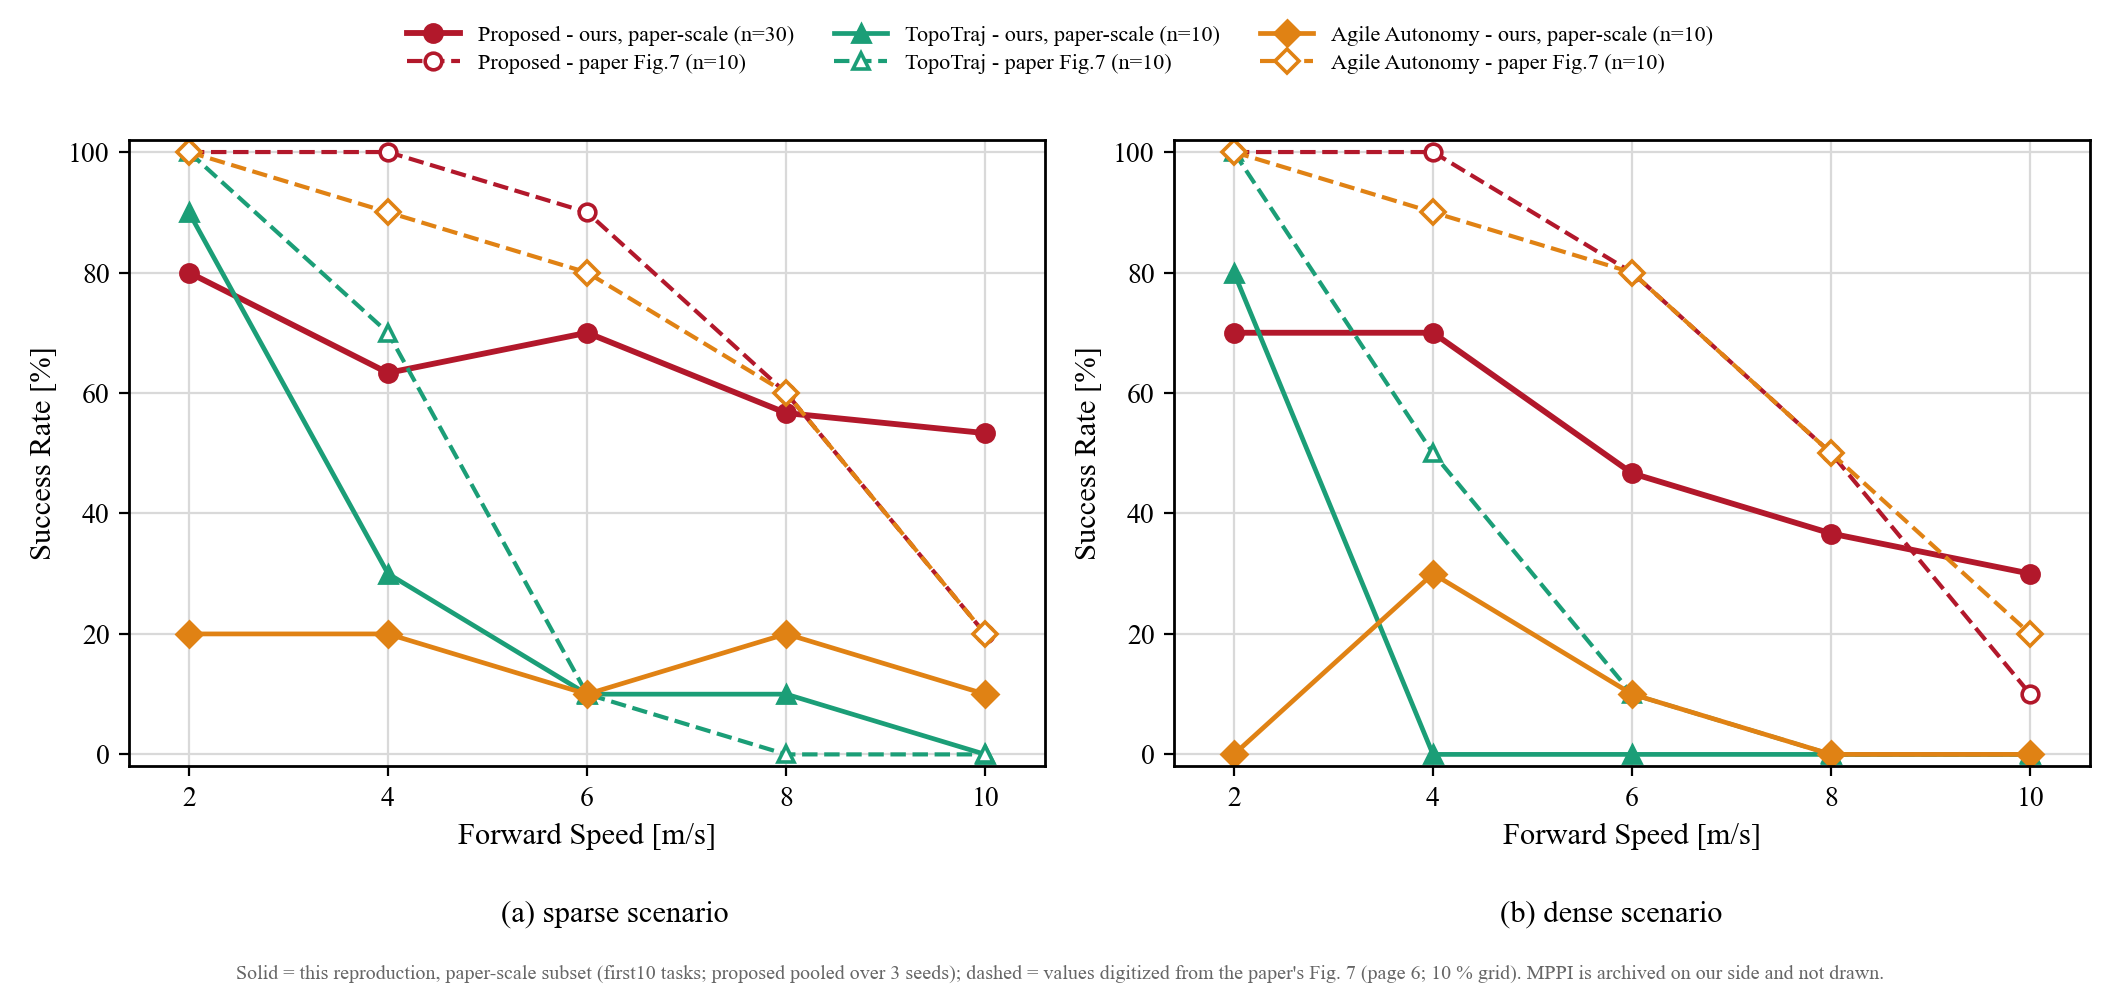
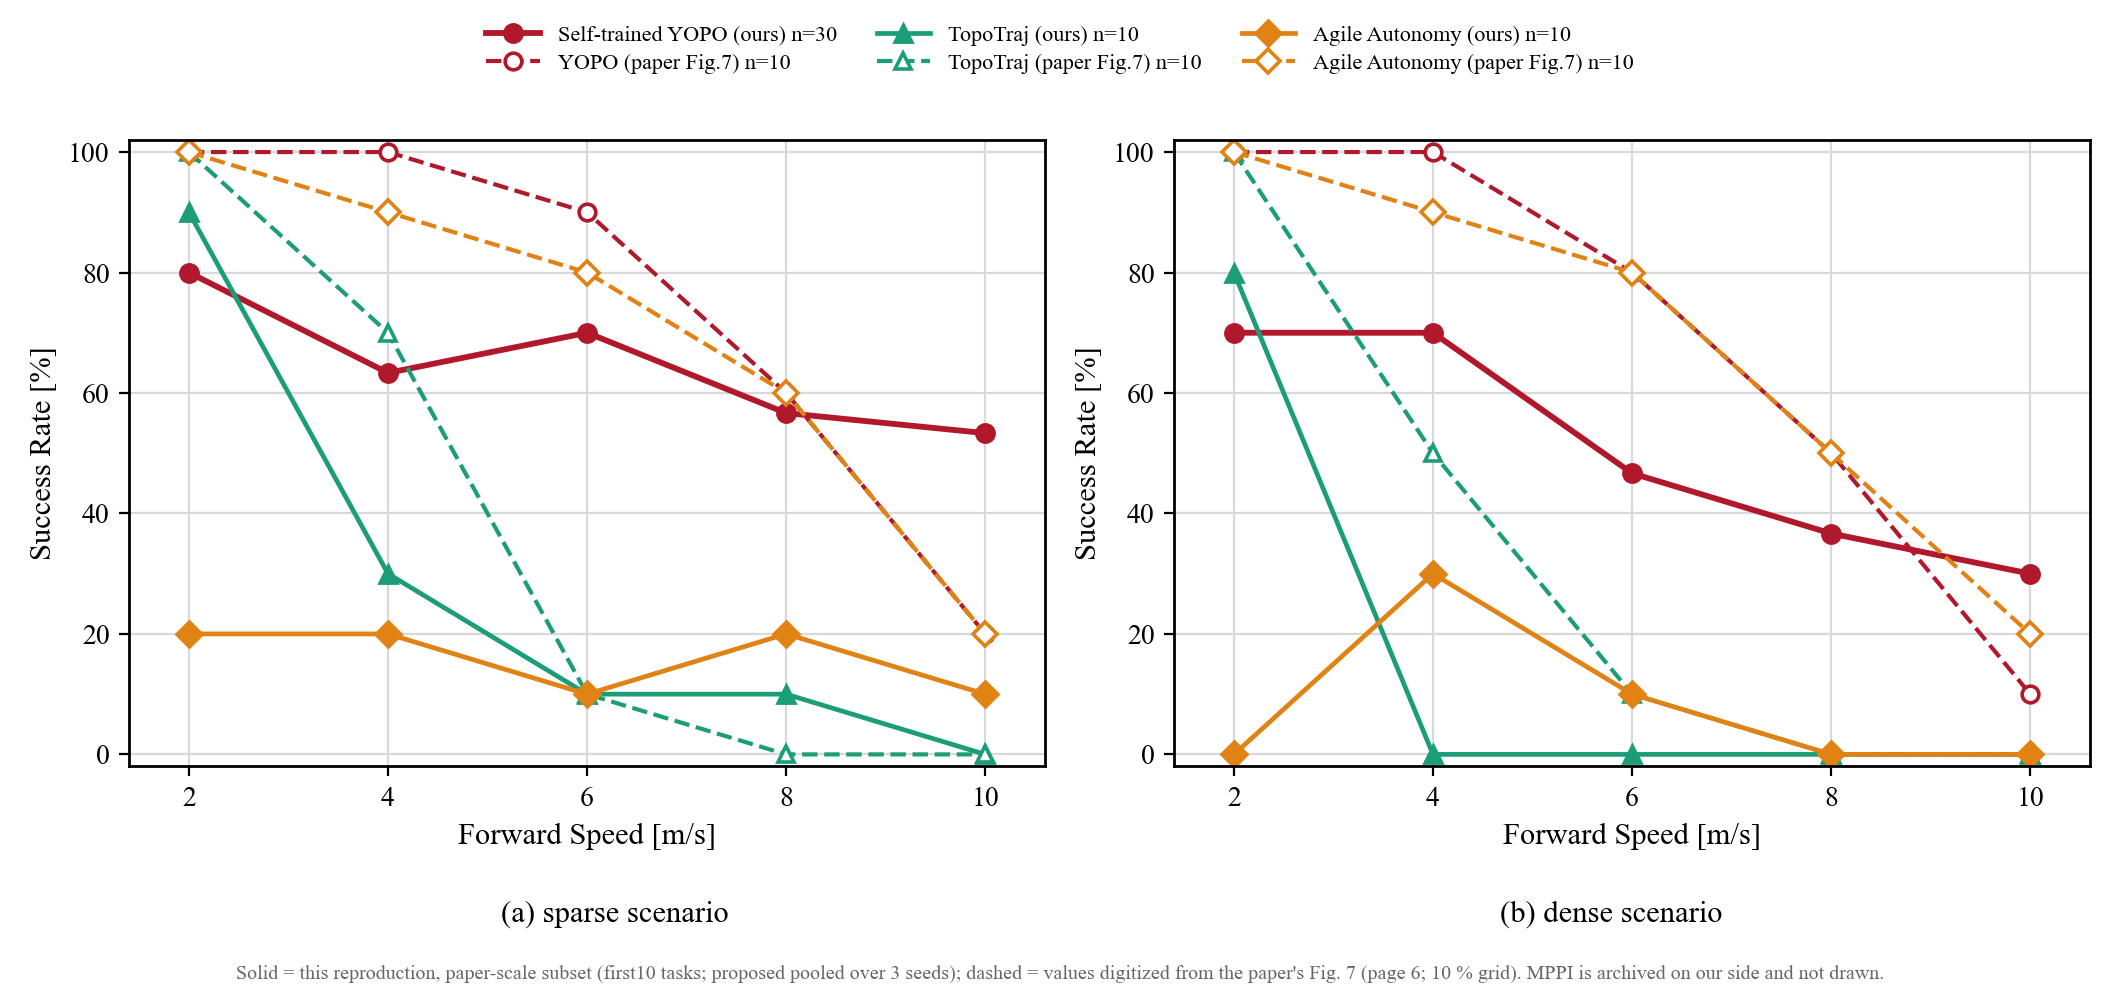
docs: full-matrix-only comparison figures; rename proposed to Self-trained YOPO (ours)
The two Fig.7-style panels drop the paper-scale (first10) dashed series so every curve is a full-matrix comparison (self-trained n=90/point, baselines n=30/point, official reference arm n=30/point with a live running count); the paper-scale alignment stays in its dedicated figure. Legend naming follows the repo language: Self-trained YOPO (ours) / Official YOPO epoch50 reference arm, replacing the paper's 'Proposed' term. Project-map captions updated accordingly.

Changed region(s): [[0.1868, 0.0, 0.8094, 0.093]]

diff --git a/scripts/make_benchmark_speed_figures.py b/scripts/make_benchmark_speed_figures.py
@@ -46,7 +46,7 @@ MEDIA = ROOT / "report/00_index/media"
 SPEEDS = [2, 4, 6, 8, 10]
 CONDITIONS = {"sparse": "sparse  (\u03c1 = 1/30 m$^{-2}$)", "dense": "dense  (\u03c1 = 1/20 m$^{-2}$)"}
 MODELS = {
-    "yopo": ("Proposed", "#b2182b", "o"),
+    "yopo": ("Self-trained YOPO (ours)", "#b2182b", "o"),
     "topotraj": ("TopoTraj", "#1b9e77", "^"),
     "agile": ("Agile Autonomy", "#e08214", "D"),
 }
@@ -138,16 +138,16 @@ def _axes(ax, ylabel):
     ax.tick_params(labelsize=10)
 
 
-def render(kind, full, paper_scale, reference, path):
-    """Fig.7 layout: solid = full frozen matrix, dashed = paper-scale first10 subset;
-    the external-reference arm (official weights, same chain) is drawn when its summary exists."""
+def render(kind, full, reference, path):
+    """Fig.7 layout, full-matrix only: self-trained YOPO + baselines from the frozen matrix,
+    plus the external-reference arm (official weights, same chain) when its summary exists."""
     label = "Success Rate [%]" if kind == "success" else "Collision Rate [%]"
     ref_index = 0 if kind == "success" else 1
     ref_completed = sum(v[3] for v in reference.values())
     ref_expected = sum(v[4] for v in reference.values())
-    ref_label = ("Official epoch50 - reference arm (n=30/point)"
+    ref_label = ("Official YOPO epoch50 - reference arm (n=30/point)"
                  if reference and ref_completed >= ref_expected
-                 else "Official epoch50 - reference arm (running: %d/%d slots)" % (ref_completed, ref_expected))
+                 else "Official YOPO epoch50 - reference arm (running: %d/%d slots)" % (ref_completed, ref_expected))
     _style()
     fig, axes = plt.subplots(1, 2, figsize=(10.6, 5.0), dpi=200)
     for ax, condition in zip(axes, ("sparse", "dense")):
@@ -158,13 +158,7 @@ def render(kind, full, paper_scale, reference, path):
                 ax.plot([p[0] for p in points], [p[1] for p in points], "-",
                         color=colour, marker=marker, markersize=6.5,
                         linewidth=2.1 if key == "yopo" else 1.7,
-                        label=f"{name} - full matrix (n={points[0][2]})")
-            points = paper_scale[condition].get(key) or []
-            if points:
-                ax.plot([p[0] for p in points], [p[1] for p in points], "--",
-                        color=colour, marker=marker, markersize=6,
-                        markerfacecolor="white", markeredgewidth=1.3,
-                        linewidth=1.6, label=f"{name} - paper-scale (n={points[0][2]})")
+                        label=f"{name} (n={points[0][2]}/point)")
         ref_points = [(speed, 100.0 * reference[(condition, speed)][ref_index] / reference[(condition, speed)][3], reference[(condition, speed)][3])
                       for speed in SPEEDS
                       if (condition, speed) in reference and reference[(condition, speed)][3] > 0]
@@ -183,10 +177,9 @@ def render(kind, full, paper_scale, reference, path):
                labelspacing=0.35)
     fig.text(0.29, 0.078, "(a) sparse scenario", ha="center", fontsize=11)
     fig.text(0.76, 0.078, "(b) dense scenario", ha="center", fontsize=11)
-    footer = ("Solid = full ROS2 frozen matrix (1,500 active slots); dashed = paper-scale subset "
-              "(first10 tasks, matching the paper's 10 repeats per condition)")
+    footer = "All curves: full ROS2 frozen matrix (1,500 active slots; n = tasks per point)"
     if reference:
-        footer += "; blue = official epoch50 reference arm (same chain, external_reference class)"
+        footer += "; blue = official YOPO epoch50 reference arm (same chain, external_reference class)"
     fig.text(0.5, 0.021, footer, ha="center", fontsize=7.4, color="#666666")
     fig.tight_layout(rect=(0, 0.12, 1, 0.89))
     fig.savefig(path, facecolor="white")
@@ -197,6 +190,8 @@ def render(kind, full, paper_scale, reference, path):
 def render_paper_alignment(paper_scale, paper, path):
     """Ours (paper-scale first10) vs the paper's digitized Fig. 7 (success rate)."""
     _style()
+    ours_names = {"yopo": "Self-trained YOPO (ours)", "topotraj": "TopoTraj (ours)", "agile": "Agile Autonomy (ours)"}
+    paper_names = {"yopo": "YOPO (paper Fig.7)", "topotraj": "TopoTraj (paper Fig.7)", "agile": "Agile Autonomy (paper Fig.7)"}
     fig, axes = plt.subplots(1, 2, figsize=(10.6, 5.0), dpi=200)
     for ax, condition in zip(axes, ("sparse", "dense")):
         for key in ("yopo", "topotraj", "agile"):
@@ -206,12 +201,12 @@ def render_paper_alignment(paper_scale, paper, path):
                 ax.plot([p[0] for p in points], [p[1] for p in points], "-",
                         color=colour, marker=marker, markersize=6.5,
                         linewidth=2.1 if key == "yopo" else 1.7,
-                        label=f"{name} - ours, paper-scale (n={points[0][2]})")
+                        label=f"{ours_names[key]} n={points[0][2]}")
             paper_key = {"yopo": "Proposed", "topotraj": "TopoTraj", "agile": "Agile"}[key]
             values = paper["scenarios"][condition][paper_key]
             ax.plot(SPEEDS, values, "--", color=colour, marker=marker, markersize=6,
                     markerfacecolor="white", markeredgewidth=1.3, linewidth=1.5,
-                    label=f"{name} - paper Fig.7 (n={paper['n_per_point']})")
+                    label=f"{paper_names[key]} n={paper['n_per_point']}")
         _axes(ax, "Success Rate [%]")
     handles, labels = [], []
     for ax in axes:
@@ -278,10 +273,8 @@ def main():
     full = matrix_rates()
     paper_scale = first10_rates()
     reference = reference_rates()
-    render("success", series(full, "success"), series(paper_scale, "success"), reference,
-           MEDIA / "success_vs_speed.png")
-    render("collision", series(full, "collision"), series(paper_scale, "collision"), reference,
-           MEDIA / "collision_vs_speed.png")
+    render("success", series(full, "success"), reference, MEDIA / "success_vs_speed.png")
+    render("collision", series(full, "collision"), reference, MEDIA / "collision_vs_speed.png")
     render_paper_alignment(series(paper_scale, "success"),
                            json.loads(PAPER_FIG7.read_text(encoding="utf-8")),
                            MEDIA / "paper_vs_reproduction_vs_speed.png")

diff --git a/report/00_index/03_project_map.md b/report/00_index/03_project_map.md
@@ -40,7 +40,7 @@
 
 ## 3. 论文 Fig.7 口径：成功率 / 碰撞率 vs 前向速度（ROS2 冻结矩阵）
 
-与论文 Fig.7 相同的形式：两个面板分别对应稀疏（1/30）与稠密（1/20）场景，横轴为 2–10 m/s。**实线 = 完整冻结矩阵**（自训练 YOPO 三种子合并 n=90/点，TopoTraj / Agile n=30/点）；**虚线 = 论文规模子集**（`paper_first10`：与论文同为每条件 10 次试验的口径，提案方法三合并 n=30/点、基线 n=10/点），用于同图观察样本规模带来的差异；当参考臂汇总（4.1）存在时，图中还会叠加**官方权重参考臂曲线**（蓝色方块；来源类别 external_reference，图例注明 running/最终 n）。论文中的 MPPI 曲线在本仓库已归档，不再绘制。
+与论文 Fig.7 相同的形式：两个面板分别对应稀疏（1/30）与稠密（1/20）场景，横轴为 2–10 m/s。图中所有曲线均为**全矩阵口径**：自训练 YOPO（本仓库，三种子合并 n=90/点）、TopoTraj 与 Agile Autonomy（各 n=30/点），以及当参考臂汇总（4.1）存在时叠加的**官方 YOPO epoch50 参考臂曲线**（蓝色方块；来源类别 external_reference，图例注明 running 或最终 n=30/点）。论文规模（first10，n=10）的对照单独放在 §3.1 的论文对位图。论文中的 MPPI 曲线在本仓库已归档，不再绘制。
 
 ![成功率 vs 前向速度（稀疏 / 稠密，ROS2 冻结矩阵）](media/success_vs_speed.png)
 
@@ -70,11 +70,11 @@
 
 ### 3.1 论文规模对位：我们（first10 子集）vs 论文原文 Fig.7
 
-论文 Fig.7 的试验口径是「每个条件（密度 × 速度 × 方法）重复 10 次随机实验」（原文 §IV-B "2) Flight Speed"），并未公布数值表；下图虚线为**从作者版 PDF 的 Fig.7 图形数字化**得到的论文数值（坐标按 0–100%、2–10 m/s 刻度标定，逐条曲线按颜色提取，数值均落在 10% 网格上，与 n=10 相符；数字化数据见 [paper_fig7_digitized.json](media/paper_fig7_digitized.json)），实线为本仓库同规模子集（first10，提案方法三种子合并 n=30/点、基线 n=10/点）：
+论文 Fig.7 的试验口径是「每个条件（密度 × 速度 × 方法）重复 10 次随机实验」（原文 §IV-B "2) Flight Speed"），并未公布数值表；下图虚线为**从作者版 PDF 的 Fig.7 图形数字化**得到的论文数值（坐标按 0–100%、2–10 m/s 刻度标定，逐条曲线按颜色提取，数值均落在 10% 网格上，与 n=10 相符；数字化数据见 [paper_fig7_digitized.json](media/paper_fig7_digitized.json)），实线为本仓库同规模子集（first10：自训练 YOPO 三种子合并 n=30/点、基线 n=10/点）：
 
 ![论文规模对位：本仓库 first10 子集 vs 论文原文 Fig.7（成功率）](media/paper_vs_reproduction_vs_speed.png)
 
-**提案方法（Proposed）逐速度对照（成功率 %）**
+**自训练 YOPO（本仓库）逐速度对照（成功率 %）**
 
 | 场景 | 来源 | 2 m/s | 4 m/s | 6 m/s | 8 m/s | 10 m/s |
 |---|---|---|---|---|---|---|
